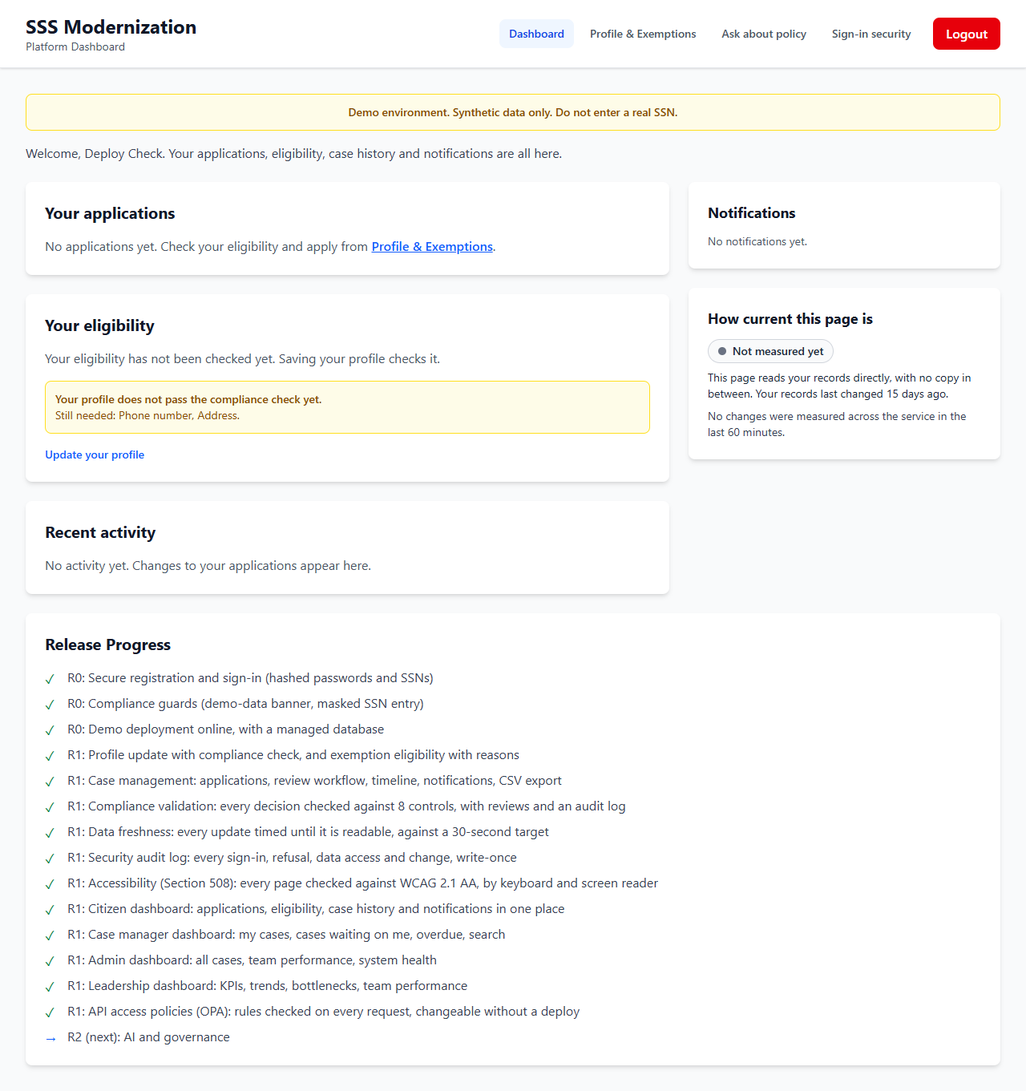
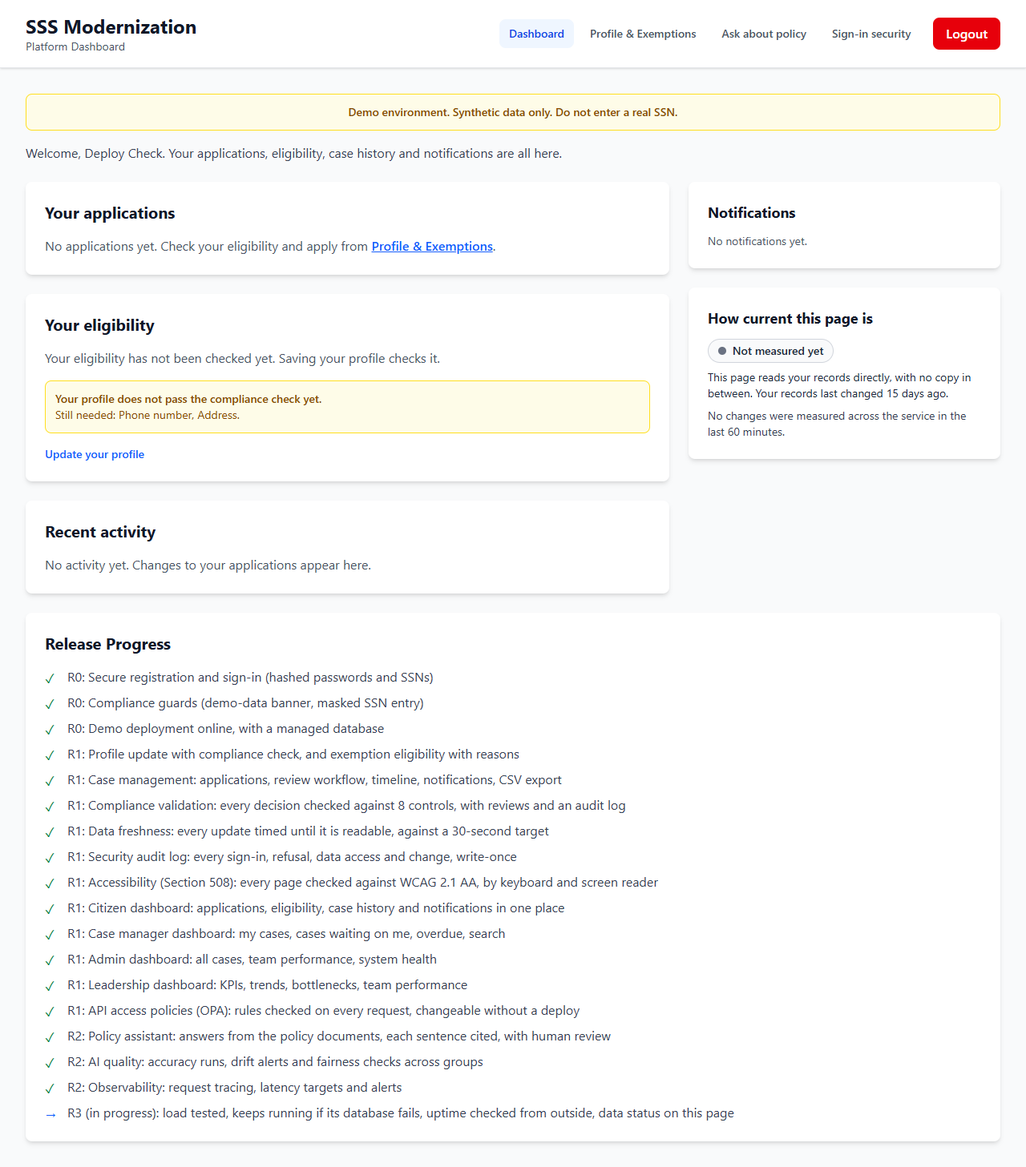
R3 milestone 1 evidence: load, sizing, outage and uptime screens, and the composite for the post
Screens 01 to 07 are drawn from the measured files (r3-load JSON, the README and sizing tables as written, the failover e2e
output), so the pictures and the numbers agree. Composite: 10 screens, 629 KB.

diff --git a/sss-modernization-demo/docs/evidence/r3-m1/01-ramp-latency.html b/sss-modernization-demo/docs/evidence/r3-m1/01-ramp-latency.html
@@ -1,0 +1,18 @@
+<!doctype html><html lang="en"><head><meta charset="utf-8"><title>STORY-031 and 033: p95 latency as load rises</title><style>
+  body { margin: 0; padding: 24px 28px; width: 1180px; background: #fcfcfb; color: #0b0b0b; font: 15px/1.45 "Segoe UI", system-ui, sans-serif; }
+  h1 { font-size: 22px; margin: 0 0 4px; } .sub { color: #52514e; margin: 0 0 16px; }
+  h2 { font-size: 16px; margin: 18px 0 8px; }
+  table { border-collapse: collapse; width: 100%; font-size: 14px; font-variant-numeric: tabular-nums; }
+  th, td { border-bottom: 1px solid #e4e3df; padding: 5px 8px; text-align: left; vertical-align: top; }
+  th { color: #52514e; font-weight: 600; background: #f3f2ef; }
+  td strong { font-weight: 700; }
+  .grid { display: grid; grid-template-columns: 1fr 1fr; gap: 24px; }
+  .legend { display: flex; gap: 18px; color: #52514e; font-size: 14px; margin: 4px 0 8px; }
+  .key { display: inline-block; width: 18px; height: 3px; vertical-align: middle; margin-right: 6px; border-radius: 2px; }
+  .note { color: #52514e; font-size: 13px; margin-top: 10px; }
+  .pass { color: #0a7a0a; font-weight: 700; } ul.checks { columns: 2; padding-left: 18px; margin: 0; font-size: 14px; } ul.checks li { margin: 2px 0; }
+  .banner { background: #fff7d6; border: 1px solid #eda100; padding: 6px 10px; border-radius: 6px; font-size: 13px; margin-bottom: 12px; }
+</style></head><body><div class="banner">Synthetic demo deployment. Not operating in production.</div><h1>STORY-031 and 033: capacity on the local stack, before and after</h1><p class="sub">Same harness, same machine, same hour: ramp of 4 to 128 open connections, 20 s per step, mixed journeys (registrant, case manager, assistant with the stub model, dashboards).</p><div class="legend"><span><span class="key" style="background:#2a78d6"></span>Before (STORY-034 build, pool 10)</span><span><span class="key" style="background:#eb6834"></span>After (STORY-033 fixes, migration 026, pool 25)</span></div>
+  <div class="grid"><figure style="margin:0"><h2>p95 response time (ms)</h2><svg width="560" height="300" role="img" aria-label="p95 response time (ms)" xmlns="http://www.w3.org/2000/svg" font-size="12" fill="#52514e"><line x1="56" x2="486" y1="260" y2="260" stroke="#e4e3df"/><text x="48" y="264" text-anchor="end">0</text><line x1="56" x2="486" y1="219" y2="219" stroke="#e4e3df"/><text x="48" y="223" text-anchor="end">2,000</text><line x1="56" x2="486" y1="178" y2="178" stroke="#e4e3df"/><text x="48" y="182" text-anchor="end">4,000</text><line x1="56" x2="486" y1="137" y2="137" stroke="#e4e3df"/><text x="48" y="141" text-anchor="end">6,000</text><line x1="56" x2="486" y1="96" y2="96" stroke="#e4e3df"/><text x="48" y="100" text-anchor="end">8,000</text><line x1="56" x2="486" y1="55" y2="55" stroke="#e4e3df"/><text x="48" y="59" text-anchor="end">10,000</text><line x1="56" x2="486" y1="14" y2="14" stroke="#e4e3df"/><text x="48" y="18" text-anchor="end">12,000</text><text x="56" y="278" text-anchor="middle">4</text><text x="142" y="278" text-anchor="middle">8</text><text x="228" y="278" text-anchor="middle">16</text><text x="314" y="278" text-anchor="middle">32</text><text x="400" y="278" text-anchor="middle">64</text><text x="486" y="278" text-anchor="middle">128</text><text x="271" y="294" text-anchor="middle">open connections</text><text x="12" y="18" transform="rotate(-90 12 18)" text-anchor="end">ms</text><line x1="56" x2="486" y1="219" y2="219" stroke="#0b0b0b" stroke-dasharray="5 4"/><text x="490" y="223" fill="#0b0b0b">2 s target</text><polyline points="56,253.4236 142,241.4721 228,221.35135 314,151.15115 400,236.8596 486,18.893350000000027" fill="none" stroke="#2a78d6" stroke-width="2"/><circle cx="56" cy="253.4236" r="4" fill="#2a78d6" stroke="#fcfcfb" stroke-width="2"/><circle cx="142" cy="241.4721" r="4" fill="#2a78d6" stroke="#fcfcfb" stroke-width="2"/><circle cx="228" cy="221.35135" r="4" fill="#2a78d6" stroke="#fcfcfb" stroke-width="2"/><circle cx="314" cy="151.15115" r="4" fill="#2a78d6" stroke="#fcfcfb" stroke-width="2"/><circle cx="400" cy="236.8596" r="4" fill="#2a78d6" stroke="#fcfcfb" stroke-width="2"/><circle cx="486" cy="18.893350000000027" r="4" fill="#2a78d6" stroke="#fcfcfb" stroke-width="2"/><text x="494" y="22.893350000000027" fill="#0b0b0b">Before</text><polyline points="56,252.9521 142,248.4995 228,240.484 314,207.92795 400,168.22764999999998 486,127.38755" fill="none" stroke="#eb6834" stroke-width="2"/><circle cx="56" cy="252.9521" r="4" fill="#eb6834" stroke="#fcfcfb" stroke-width="2"/><circle cx="142" cy="248.4995" r="4" fill="#eb6834" stroke="#fcfcfb" stroke-width="2"/><circle cx="228" cy="240.484" r="4" fill="#eb6834" stroke="#fcfcfb" stroke-width="2"/><circle cx="314" cy="207.92795" r="4" fill="#eb6834" stroke="#fcfcfb" stroke-width="2"/><circle cx="400" cy="168.22764999999998" r="4" fill="#eb6834" stroke="#fcfcfb" stroke-width="2"/><circle cx="486" cy="127.38755" r="4" fill="#eb6834" stroke="#fcfcfb" stroke-width="2"/><text x="494" y="131.38755" fill="#0b0b0b">After</text></svg></figure>
+  <figure style="margin:0"><h2>Requests that failed (%)</h2><svg width="560" height="300" role="img" aria-label="Requests that failed (%)" xmlns="http://www.w3.org/2000/svg" font-size="12" fill="#52514e"><line x1="56" x2="486" y1="260" y2="260" stroke="#e4e3df"/><text x="48" y="264" text-anchor="end">0</text><line x1="56" x2="486" y1="198.5" y2="198.5" stroke="#e4e3df"/><text x="48" y="202.5" text-anchor="end">25</text><line x1="56" x2="486" y1="137" y2="137" stroke="#e4e3df"/><text x="48" y="141" text-anchor="end">50</text><line x1="56" x2="486" y1="75.5" y2="75.5" stroke="#e4e3df"/><text x="48" y="79.5" text-anchor="end">75</text><line x1="56" x2="486" y1="14" y2="14" stroke="#e4e3df"/><text x="48" y="18" text-anchor="end">100</text><text x="56" y="278" text-anchor="middle">4</text><text x="142" y="278" text-anchor="middle">8</text><text x="228" y="278" text-anchor="middle">16</text><text x="314" y="278" text-anchor="middle">32</text><text x="400" y="278" text-anchor="middle">64</text><text x="486" y="278" text-anchor="middle">128</text><text x="271" y="294" text-anchor="middle">open connections</text><text x="12" y="18" transform="rotate(-90 12 18)" text-anchor="end">%</text><polyline points="56,260 142,260 228,260 314,260 400,14 486,14" fill="none" stroke="#2a78d6" stroke-width="2"/><circle cx="56" cy="260" r="4" fill="#2a78d6" stroke="#fcfcfb" stroke-width="2"/><circle cx="142" cy="260" r="4" fill="#2a78d6" stroke="#fcfcfb" stroke-width="2"/><circle cx="228" cy="260" r="4" fill="#2a78d6" stroke="#fcfcfb" stroke-width="2"/><circle cx="314" cy="260" r="4" fill="#2a78d6" stroke="#fcfcfb" stroke-width="2"/><circle cx="400" cy="14" r="4" fill="#2a78d6" stroke="#fcfcfb" stroke-width="2"/><circle cx="486" cy="14" r="4" fill="#2a78d6" stroke="#fcfcfb" stroke-width="2"/><text x="494" y="18" fill="#0b0b0b">Before</text><polyline points="56,260 142,260 228,260 314,260 400,260 486,260" fill="none" stroke="#eb6834" stroke-width="2"/><circle cx="56" cy="260" r="4" fill="#eb6834" stroke="#fcfcfb" stroke-width="2"/><circle cx="142" cy="260" r="4" fill="#eb6834" stroke="#fcfcfb" stroke-width="2"/><circle cx="228" cy="260" r="4" fill="#eb6834" stroke="#fcfcfb" stroke-width="2"/><circle cx="314" cy="260" r="4" fill="#eb6834" stroke="#fcfcfb" stroke-width="2"/><circle cx="400" cy="260" r="4" fill="#eb6834" stroke="#fcfcfb" stroke-width="2"/><circle cx="486" cy="260" r="4" fill="#eb6834" stroke="#fcfcfb" stroke-width="2"/><text x="494" y="264" fill="#0b0b0b">After</text></svg></figure></div>
+  <p class="note">Breaking point (first step with p95 over 2 s): 32 connections both times, p95 5,310 ms before and 2,540 ms after. Before, 96 to 98% of requests failed at 64 and 128 connections: a full connection pool was mistaken for a database outage (fixed), so the before line at 64 and 128 measures fast refusals and is not comparable. After: no failed request at any step.</p></body></html>

diff --git a/sss-modernization-demo/docs/evidence/r3-m1/02-ramp-throughput.html b/sss-modernization-demo/docs/evidence/r3-m1/02-ramp-throughput.html
@@ -1,0 +1,18 @@
+<!doctype html><html lang="en"><head><meta charset="utf-8"><title>STORY-031: throughput and what saturates</title><style>
+  body { margin: 0; padding: 24px 28px; width: 1180px; background: #fcfcfb; color: #0b0b0b; font: 15px/1.45 "Segoe UI", system-ui, sans-serif; }
+  h1 { font-size: 22px; margin: 0 0 4px; } .sub { color: #52514e; margin: 0 0 16px; }
+  h2 { font-size: 16px; margin: 18px 0 8px; }
+  table { border-collapse: collapse; width: 100%; font-size: 14px; font-variant-numeric: tabular-nums; }
+  th, td { border-bottom: 1px solid #e4e3df; padding: 5px 8px; text-align: left; vertical-align: top; }
+  th { color: #52514e; font-weight: 600; background: #f3f2ef; }
+  td strong { font-weight: 700; }
+  .grid { display: grid; grid-template-columns: 1fr 1fr; gap: 24px; }
+  .legend { display: flex; gap: 18px; color: #52514e; font-size: 14px; margin: 4px 0 8px; }
+  .key { display: inline-block; width: 18px; height: 3px; vertical-align: middle; margin-right: 6px; border-radius: 2px; }
+  .note { color: #52514e; font-size: 13px; margin-top: 10px; }
+  .pass { color: #0a7a0a; font-weight: 700; } ul.checks { columns: 2; padding-left: 18px; margin: 0; font-size: 14px; } ul.checks li { margin: 2px 0; }
+  .banner { background: #fff7d6; border: 1px solid #eda100; padding: 6px 10px; border-radius: 6px; font-size: 13px; margin-bottom: 12px; }
+</style></head><body><div class="banner">Synthetic demo deployment. Not operating in production.</div><h1>STORY-031: requests per second, and what runs out first</h1><div class="legend"><span><span class="key" style="background:#2a78d6"></span>Before (STORY-034 build, pool 10)</span><span><span class="key" style="background:#eb6834"></span>After (STORY-033 fixes, migration 026, pool 25)</span></div>
+  <div class="grid"><figure style="margin:0"><h2>Requests per second</h2><svg width="560" height="300" role="img" aria-label="Requests per second" xmlns="http://www.w3.org/2000/svg" font-size="12" fill="#52514e"><line x1="56" x2="486" y1="260" y2="260" stroke="#e4e3df"/><text x="48" y="264" text-anchor="end">0</text><line x1="56" x2="486" y1="178" y2="178" stroke="#e4e3df"/><text x="48" y="182" text-anchor="end">20</text><line x1="56" x2="486" y1="96" y2="96" stroke="#e4e3df"/><text x="48" y="100" text-anchor="end">40</text><line x1="56" x2="486" y1="14" y2="14" stroke="#e4e3df"/><text x="48" y="18" text-anchor="end">60</text><text x="56" y="278" text-anchor="middle">4</text><text x="142" y="278" text-anchor="middle">8</text><text x="228" y="278" text-anchor="middle">16</text><text x="314" y="278" text-anchor="middle">32</text><text x="400" y="278" text-anchor="middle">64</text><text x="486" y="278" text-anchor="middle">128</text><text x="271" y="294" text-anchor="middle">open connections</text><text x="12" y="18" transform="rotate(-90 12 18)" text-anchor="end">req/s</text><polyline points="56,130.44 142,158.32 228,164.47 314,186.2 400,36.139999999999986 486,111.99000000000001" fill="none" stroke="#2a78d6" stroke-width="2"/><circle cx="56" cy="130.44" r="4" fill="#2a78d6" stroke="#fcfcfb" stroke-width="2"/><circle cx="142" cy="158.32" r="4" fill="#2a78d6" stroke="#fcfcfb" stroke-width="2"/><circle cx="228" cy="164.47" r="4" fill="#2a78d6" stroke="#fcfcfb" stroke-width="2"/><circle cx="314" cy="186.2" r="4" fill="#2a78d6" stroke="#fcfcfb" stroke-width="2"/><circle cx="400" cy="36.139999999999986" r="4" fill="#2a78d6" stroke="#fcfcfb" stroke-width="2"/><circle cx="486" cy="111.99000000000001" r="4" fill="#2a78d6" stroke="#fcfcfb" stroke-width="2"/><text x="494" y="115.99000000000001" fill="#0b0b0b">Before</text><polyline points="56,94.77000000000001 142,41.879999999999995 228,44.34 314,82.47000000000003 400,57.870000000000005 486,62.79000000000002" fill="none" stroke="#eb6834" stroke-width="2"/><circle cx="56" cy="94.77000000000001" r="4" fill="#eb6834" stroke="#fcfcfb" stroke-width="2"/><circle cx="142" cy="41.879999999999995" r="4" fill="#eb6834" stroke="#fcfcfb" stroke-width="2"/><circle cx="228" cy="44.34" r="4" fill="#eb6834" stroke="#fcfcfb" stroke-width="2"/><circle cx="314" cy="82.47000000000003" r="4" fill="#eb6834" stroke="#fcfcfb" stroke-width="2"/><circle cx="400" cy="57.870000000000005" r="4" fill="#eb6834" stroke="#fcfcfb" stroke-width="2"/><circle cx="486" cy="62.79000000000002" r="4" fill="#eb6834" stroke="#fcfcfb" stroke-width="2"/><text x="494" y="66.79000000000002" fill="#0b0b0b">After</text></svg></figure>
+  <div><h2>After, step by step (ramp-final.json)</h2><table><tr><th>Connections</th><th>req/s</th><th>p50 ms</th><th>p95 ms</th><th>p99 ms</th><th>Errors</th><th>Process CPU %</th><th>Event-loop mean ms</th><th>Pool waiting (max)</th></tr><tr><td>4</td><td>40.3</td><td>50</td><td>344</td><td>796</td><td>0%</td><td>62</td><td>21</td><td>0</td></tr><tr><td>8</td><td>53.2</td><td>79</td><td>561</td><td>994</td><td>0%</td><td>88</td><td>27</td><td>2</td></tr><tr><td>16</td><td>52.6</td><td>160</td><td>952</td><td>1,957</td><td>0%</td><td>99</td><td>56</td><td>7</td></tr><tr><td><strong>32</strong></td><td>43.3</td><td>430</td><td><strong>2,540</strong></td><td>3,920</td><td>0%</td><td>99</td><td>139</td><td>39</td></tr><tr><td>64</td><td>49.3</td><td>691</td><td>4,477</td><td>6,760</td><td>0%</td><td>104</td><td>115</td><td>67</td></tr><tr><td>128</td><td>48.1</td><td>1,335</td><td>6,469</td><td>10,617</td><td>0%</td><td>114</td><td>83</td><td>320</td></tr></table></div></div>
+  <p class="note">Before: the pool of 10 connections filled at 8 open connections. After: the single JavaScript thread is the limit (process CPU about 100%, event-loop delay rising); pool waiting grows only past 32. The before rate at 64 and 128 counts the 96 to 98% of requests that failed at once. Absolute rates are this laptop's (security software slows its loopback); the comparisons were run back to back.</p></body></html>

diff --git a/sss-modernization-demo/docs/evidence/r3-m1/06-production-sizing.html b/sss-modernization-demo/docs/evidence/r3-m1/06-production-sizing.html
@@ -1,0 +1,21 @@
+<!doctype html><html lang="en"><head><meta charset="utf-8"><title>STORY-033: production sizing, every number labelled</title><style>
+  body { margin: 0; padding: 24px 28px; width: 1180px; background: #fcfcfb; color: #0b0b0b; font: 15px/1.45 "Segoe UI", system-ui, sans-serif; }
+  h1 { font-size: 22px; margin: 0 0 4px; } .sub { color: #52514e; margin: 0 0 16px; }
+  h2 { font-size: 16px; margin: 18px 0 8px; }
+  table { border-collapse: collapse; width: 100%; font-size: 14px; font-variant-numeric: tabular-nums; }
+  th, td { border-bottom: 1px solid #e4e3df; padding: 5px 8px; text-align: left; vertical-align: top; }
+  th { color: #52514e; font-weight: 600; background: #f3f2ef; }
+  td strong { font-weight: 700; }
+  .grid { display: grid; grid-template-columns: 1fr 1fr; gap: 24px; }
+  .legend { display: flex; gap: 18px; color: #52514e; font-size: 14px; margin: 4px 0 8px; }
+  .key { display: inline-block; width: 18px; height: 3px; vertical-align: middle; margin-right: 6px; border-radius: 2px; }
+  .note { color: #52514e; font-size: 13px; margin-top: 10px; }
+  .pass { color: #0a7a0a; font-weight: 700; } ul.checks { columns: 2; padding-left: 18px; margin: 0; font-size: 14px; } ul.checks li { margin: 2px 0; }
+  .banner { background: #fff7d6; border: 1px solid #eda100; padding: 6px 10px; border-radius: 6px; font-size: 13px; margin-bottom: 12px; }
+</style></head><body><div class="banner">Synthetic demo deployment. Not operating in production.</div><h1>Production sizing for 10,000 concurrent users</h1><p class="sub">docs/PRODUCTION-SIZING.md. Every number is labelled measured, derived or assumed. A derivation to check with a real load test on the target hosting, not a result.</p>
+  <h2>The result (derived)</h2><table><tr><th>Part</th><th>Size</th></tr>
+  <tr><td>Application</td><td>about 4.4 cores busy at the peak, run at 50% or less: <strong>8 to 10 one-vCPU processes</strong> across at least 2 availability zones</td></tr>
+  <tr><td>Database</td><td>about 5,000 statements/s, about 20 busy connections at peaks: a pooler, a 4 vCPU / 16 GB writer (assumed) and a read replica for the heavy dashboards, Multi-AZ</td></tr>
+  <tr><td>Audit log</td><td>about <strong>37 GB a day</strong> before indexes: partition by month</td></tr>
+  <tr><td>First risk</td><td>sign-ins on a deadline day: bcrypt grows linearly (50 sign-ins/s is 14.5 cores for hashing alone)</td></tr></table>
+  <h2>Assumptions</h2><table><tr><th>Assumption</th><th>Value</th><th>Why</th></tr><tr><td>Concurrent signed-in users at the peak</td><td>10,000</td><td>The target</td></tr><tr><td>Requests per active user</td><td>1 every 10 s (think time)</td><td>A person reading a dashboard or a form. The demo's own journeys are busier.</td></tr><tr><td>Peak request rate</td><td>1,000 requests/s</td><td>10,000 / 10 s</td></tr><tr><td>Share who sign in during a 5-minute ramp-up</td><td>20% (2,000 sign-ins)</td><td>A notice goes out and people arrive together</td></tr><tr><td>Share of requests that are reads</td><td>about 85%</td><td>Dashboards, lists and the history are reads; applications and decisions are writes</td></tr><tr><td>Database round trip inside one region</td><td>about 1 ms per statement</td><td>Same-region managed PostgreSQL; the laptop idle measure below is smaller, a loaded laptop is far larger</td></tr></table><h2>What the runs measured</h2><table><tr><th>Fact</th><th>Value</th><th>Label</th><th>Source</th></tr><tr><td>One bcrypt hash, cost 12 (the cost the app uses)</td><td>about 0.29 s of one core</td><td>measured</td><td>one hash on this laptop, node -e timing during STORY-031</td></tr><tr><td>Hashes per sign-in / per registration</td><td>1 / 2 (password and SSN)</td><td>measured</td><td>authService.ts</td></tr><tr><td>Statements per request</td><td>3 for a simple list, 4 to 10 for a dashboard, 13 to 16 for the admin and leadership dashboards (2.5 each when 20 arrive together)</td><td>measured</td><td>README "Statements per request"</td></tr><tr><td>Statements per request, mean over the mixed journey</td><td>about 5</td><td>derived</td><td>the table above, weighted by the journey mix</td></tr><tr><td>Share of statements that are the audit insert</td><td>one per read request before; fewer after batching</td><td>measured</td><td>same</td></tr><tr><td>Cost of a request that is not a hash (CPU, one core)</td><td>about 2 to 3 ms</td><td>derived</td><td>an earlier, quiet run on this laptop (about 170 requests/s at 340% CPU of which about 300% was bcrypt). The raw file of that run was not kept; treat the figure as an order of magnitude</td></tr><tr><td>Local ceiling today, this laptop, final build</td><td>about 50 requests/s for the mixed journey, p95 under 1 s up to 16 connections, over 2 s from 32</td><td>measured</td><td>README, ramp-final</td></tr><tr><td>Live demo (0.1 CPU, 512 MB), 25 connections, 60 s</td><td>32 requests/s, p95 1.24 s, 0 errors; a sign-in takes about 1.6 s</td><td>measured</td><td>README, live run</td></tr><tr><td>Pool: 10 vs 25 connections, same load</td><td>26.6 vs 43.3 requests/s, p95 1.93 s vs 1.27 s</td><td>measured</td><td>README, pool experiment</td></tr><tr><td>Index effects at 100,000 cases</td><td>633 ms to 23 ms (admin team table), 115 ms to 0.4 ms (case list), 234 ms to 5 ms (count), 22 ms to 0.2 ms (staff lookup)</td><td>measured</td><td>README, indexes</td></tr></table></body></html>

diff --git a/sss-modernization-demo/docs/evidence/r3-m1/07-database-outage.html b/sss-modernization-demo/docs/evidence/r3-m1/07-database-outage.html
@@ -1,0 +1,17 @@
+<!doctype html><html lang="en"><head><meta charset="utf-8"><title>STORY-034: the API survives its database going away</title><style>
+  body { margin: 0; padding: 24px 28px; width: 1180px; background: #fcfcfb; color: #0b0b0b; font: 15px/1.45 "Segoe UI", system-ui, sans-serif; }
+  h1 { font-size: 22px; margin: 0 0 4px; } .sub { color: #52514e; margin: 0 0 16px; }
+  h2 { font-size: 16px; margin: 18px 0 8px; }
+  table { border-collapse: collapse; width: 100%; font-size: 14px; font-variant-numeric: tabular-nums; }
+  th, td { border-bottom: 1px solid #e4e3df; padding: 5px 8px; text-align: left; vertical-align: top; }
+  th { color: #52514e; font-weight: 600; background: #f3f2ef; }
+  td strong { font-weight: 700; }
+  .grid { display: grid; grid-template-columns: 1fr 1fr; gap: 24px; }
+  .legend { display: flex; gap: 18px; color: #52514e; font-size: 14px; margin: 4px 0 8px; }
+  .key { display: inline-block; width: 18px; height: 3px; vertical-align: middle; margin-right: 6px; border-radius: 2px; }
+  .note { color: #52514e; font-size: 13px; margin-top: 10px; }
+  .pass { color: #0a7a0a; font-weight: 700; } ul.checks { columns: 2; padding-left: 18px; margin: 0; font-size: 14px; } ul.checks li { margin: 2px 0; }
+  .banner { background: #fff7d6; border: 1px solid #eda100; padding: 6px 10px; border-radius: 6px; font-size: 13px; margin-bottom: 12px; }
+</style></head><body><div class="banner">Synthetic demo deployment. Not operating in production.</div><h1>STORY-034: the API keeps running when its database goes away, and recovers by itself</h1><p class="sub">scripts/e2e/failover.mjs on a local stack: the database is stopped before start-up and again while the API serves signed-in users, then started again. No restart of the API.</p>
+  <ul class="checks"><li><span class="pass">PASS</span> starts and listens with the database away: /health database: got "down"</li><li><span class="pass">PASS</span> /health status is degraded: got "degraded"</li><li><span class="pass">PASS</span> /health still reports the commit: got true</li><li><span class="pass">PASS</span> data route answers 503: got 503</li><li><span class="pass">PASS</span> 503 has a clear error code: got "SERVICE_UNAVAILABLE"</li><li><span class="pass">PASS</span> 503 message says the database cannot be reached and nothing was saved: got true</li><li><span class="pass">PASS</span> 503 carries Retry-After: got "5"</li><li><span class="pass">PASS</span> sign-in is also 503, not a crash: got 503</li><li><span class="pass">PASS</span> still running after 3 s without a database: got null</li><li><span class="pass">PASS</span> recovered by itself: database ok: got "ok"</li><li><span class="pass">PASS</span> recovered by itself: migrations applied: got true</li><li><span class="pass">PASS</span> no restart: process still running: got null</li><li><span class="pass">PASS</span> data route answers again (401 without a token, not 503): got 401</li><li><span class="pass">PASS</span> registers an account after recovery: got 201</li><li><span class="pass">PASS</span> signed-in read works: got 200</li><li><span class="pass">PASS</span> outage: /health database: got "down"</li><li><span class="pass">PASS</span> outage: /health still reports the commit: got true</li><li><span class="pass">PASS</span> outage: data route answers 503 with a signed-in token: got [503,"SERVICE_UNAVAILABLE"]</li><li><span class="pass">PASS</span> outage: no crash: got null</li><li><span class="pass">PASS</span> after the outage: database ok again: got true</li><li><span class="pass">PASS</span> after the outage: the earlier sign-in still works: got 200</li><li><span class="pass">PASS</span> after the outage: never restarted: got null</li></ul>
+  <p class="note">22 of 22 checks passed. The multi-region design for production (AWS GovCloud, Route 53 failover, Aurora Global Database, RTO and RPO targets) is docs/FAILOVER.md: a design, not deployed.</p></body></html>

diff --git a/sss-modernization-demo/docs/evidence/r3-m1/04-fewer-statements.html b/sss-modernization-demo/docs/evidence/r3-m1/04-fewer-statements.html
@@ -1,0 +1,16 @@
+<!doctype html><html lang="en"><head><meta charset="utf-8"><title>STORY-033: database statements per request</title><style>
+  body { margin: 0; padding: 24px 28px; width: 1180px; background: #fcfcfb; color: #0b0b0b; font: 15px/1.45 "Segoe UI", system-ui, sans-serif; }
+  h1 { font-size: 22px; margin: 0 0 4px; } .sub { color: #52514e; margin: 0 0 16px; }
+  h2 { font-size: 16px; margin: 18px 0 8px; }
+  table { border-collapse: collapse; width: 100%; font-size: 14px; font-variant-numeric: tabular-nums; }
+  th, td { border-bottom: 1px solid #e4e3df; padding: 5px 8px; text-align: left; vertical-align: top; }
+  th { color: #52514e; font-weight: 600; background: #f3f2ef; }
+  td strong { font-weight: 700; }
+  .grid { display: grid; grid-template-columns: 1fr 1fr; gap: 24px; }
+  .legend { display: flex; gap: 18px; color: #52514e; font-size: 14px; margin: 4px 0 8px; }
+  .key { display: inline-block; width: 18px; height: 3px; vertical-align: middle; margin-right: 6px; border-radius: 2px; }
+  .note { color: #52514e; font-size: 13px; margin-top: 10px; }
+  .pass { color: #0a7a0a; font-weight: 700; } ul.checks { columns: 2; padding-left: 18px; margin: 0; font-size: 14px; } ul.checks li { margin: 2px 0; }
+  .banner { background: #fff7d6; border: 1px solid #eda100; padding: 6px 10px; border-radius: 6px; font-size: 13px; margin-bottom: 12px; }
+</style></head><body><div class="banner">Synthetic demo deployment. Not operating in production.</div><h1>STORY-033: fewer database statements per request</h1><p class="sub">Counted by the load sampler, 40 sequential requests per route on a fresh database. This does not depend on the machine.</p><table><tr><th>Route</th><th>Statements before</th><th>after</th></tr><tr><td>GET /cases/stats (staff)</td><td>5.95</td><td>4.05</td></tr><tr><td>GET /dashboards/case-manager</td><td>8.07</td><td>7.05</td></tr><tr><td>GET /dashboards/admin</td><td>17.05</td><td>16.05</td></tr><tr><td>GET /dashboards/leadership</td><td>14.05</td><td>13.05</td></tr><tr><td>GET /dashboards/admin, 20 at the same moment</td><td>17.10 each</td><td>2.55 each</td></tr><tr><td>GET /exemptions, /notifications, /assistant/history, /cases</td><td>3.05 to 4.03</td><td>3.02 to 4.05 (unchanged: role, the query, the audit entry)</td></tr></table>
+  <h2>Indexes (migration 026), 100,000 cases and 100,000 applicants, EXPLAIN ANALYZE</h2><table><tr><th>Query</th><th>Before</th><th>After</th></tr><tr><td>Admin dashboard team table (lower(assigned_to) = lower(email) for each of 42 staff)</td><td>633 ms</td><td>23 ms (idx_cases_assigned_lower_status)</td></tr><tr><td>Staff case list, newest first, 25 rows</td><td>115 ms</td><td>0.4 ms (idx_cases_updated_at)</td></tr><tr><td>Staff lookup lower(email) = lower($1)</td><td>22 ms</td><td>0.2 ms (idx_users_email_lower)</td></tr><tr><td>Case list total count (two joins it did not need)</td><td>234 ms</td><td>5 ms (joins only when a filter names the table)</td></tr></table></body></html>

diff --git a/sss-modernization-demo/docs/evidence/r3-m1/05-live-run.html b/sss-modernization-demo/docs/evidence/r3-m1/05-live-run.html
@@ -1,0 +1,17 @@
+<!doctype html><html lang="en"><head><meta charset="utf-8"><title>STORY-032: one light run against the live demo</title><style>
+  body { margin: 0; padding: 24px 28px; width: 1180px; background: #fcfcfb; color: #0b0b0b; font: 15px/1.45 "Segoe UI", system-ui, sans-serif; }
+  h1 { font-size: 22px; margin: 0 0 4px; } .sub { color: #52514e; margin: 0 0 16px; }
+  h2 { font-size: 16px; margin: 18px 0 8px; }
+  table { border-collapse: collapse; width: 100%; font-size: 14px; font-variant-numeric: tabular-nums; }
+  th, td { border-bottom: 1px solid #e4e3df; padding: 5px 8px; text-align: left; vertical-align: top; }
+  th { color: #52514e; font-weight: 600; background: #f3f2ef; }
+  td strong { font-weight: 700; }
+  .grid { display: grid; grid-template-columns: 1fr 1fr; gap: 24px; }
+  .legend { display: flex; gap: 18px; color: #52514e; font-size: 14px; margin: 4px 0 8px; }
+  .key { display: inline-block; width: 18px; height: 3px; vertical-align: middle; margin-right: 6px; border-radius: 2px; }
+  .note { color: #52514e; font-size: 13px; margin-top: 10px; }
+  .pass { color: #0a7a0a; font-weight: 700; } ul.checks { columns: 2; padding-left: 18px; margin: 0; font-size: 14px; } ul.checks li { margin: 2px 0; }
+  .banner { background: #fff7d6; border: 1px solid #eda100; padding: 6px 10px; border-radius: 6px; font-size: 13px; margin-bottom: 12px; }
+</style></head><body><div class="banner">Synthetic demo deployment. Not operating in production.</div><h1>STORY-032: one light run against the live demo</h1><p class="sub">25 connections for 60 s, read-only routes, one synthetic @example.com account, no AI route. Instance: 0.1 CPU, 512 MB (Render free), before the STORY-033 changes were deployed.</p>
+  <table><tr><th></th><th>Requests</th><th>req/s</th><th>p50 ms</th><th>p95 ms</th><th>p99 ms</th><th>Errors</th></tr><tr><td>All routes</td><td>1,920</td><td>32.0</td><td>753</td><td><strong>1,244</strong></td><td>1,470</td><td><strong>0</strong> (0 rate-limited, 0 connection errors)</td></tr><tr><td>GET /exemptions</td><td>398</td><td>6.6</td><td>550</td><td>1,418</td><td>2,216</td><td>0</td></tr><tr><td>GET /cases (own)</td><td>391</td><td>6.5</td><td>658</td><td>1,070</td><td>1,294</td><td>0</td></tr><tr><td>GET /dashboards/citizen</td><td>381</td><td>6.4</td><td>868</td><td>1,306</td><td>1,407</td><td>0</td></tr><tr><td>GET /notifications</td><td>375</td><td>6.3</td><td>807</td><td>1,223</td><td>1,302</td><td>0</td></tr><tr><td>GET /users/:id</td><td>375</td><td>6.3</td><td>818</td><td>1,227</td><td>1,453</td><td>0</td></tr></table>
+  <p class="note">1,920 requests, p95 1,244 ms against the 2 s target, 0 errors. Five sign-ins one at a time: 1.6 to 1.7 s each (bcrypt, cost 12). Nothing here says anything about 10,000 users; see the sizing.</p></body></html>

diff --git a/sss-modernization-demo/docs/evidence/r3-m1/03-hold-and-spike.html b/sss-modernization-demo/docs/evidence/r3-m1/03-hold-and-spike.html
@@ -1,0 +1,16 @@
+<!doctype html><html lang="en"><head><meta charset="utf-8"><title>STORY-031 and 033: hold, pool size and spike</title><style>
+  body { margin: 0; padding: 24px 28px; width: 1180px; background: #fcfcfb; color: #0b0b0b; font: 15px/1.45 "Segoe UI", system-ui, sans-serif; }
+  h1 { font-size: 22px; margin: 0 0 4px; } .sub { color: #52514e; margin: 0 0 16px; }
+  h2 { font-size: 16px; margin: 18px 0 8px; }
+  table { border-collapse: collapse; width: 100%; font-size: 14px; font-variant-numeric: tabular-nums; }
+  th, td { border-bottom: 1px solid #e4e3df; padding: 5px 8px; text-align: left; vertical-align: top; }
+  th { color: #52514e; font-weight: 600; background: #f3f2ef; }
+  td strong { font-weight: 700; }
+  .grid { display: grid; grid-template-columns: 1fr 1fr; gap: 24px; }
+  .legend { display: flex; gap: 18px; color: #52514e; font-size: 14px; margin: 4px 0 8px; }
+  .key { display: inline-block; width: 18px; height: 3px; vertical-align: middle; margin-right: 6px; border-radius: 2px; }
+  .note { color: #52514e; font-size: 13px; margin-top: 10px; }
+  .pass { color: #0a7a0a; font-weight: 700; } ul.checks { columns: 2; padding-left: 18px; margin: 0; font-size: 14px; } ul.checks li { margin: 2px 0; }
+  .banner { background: #fff7d6; border: 1px solid #eda100; padding: 6px 10px; border-radius: 6px; font-size: 13px; margin-bottom: 12px; }
+</style></head><body><div class="banner">Synthetic demo deployment. Not operating in production.</div><h1>Hold, pool size and spike (final build)</h1><p class="sub">The 16-connection hold with the pool at 10 and at 25, and a spike from 4 to 64 connections and back.</p><table><tr><th>Run</th><th>Connections</th><th>req/s</th><th>p50 ms</th><th>p95 ms</th><th>p99 ms</th><th>Errors</th></tr><tr><td>hold 60 s, pool 10 (hold-c16-pool10)</td><td>16</td><td>26.6</td><td>369</td><td>1,928</td><td>3,219</td><td>0%</td></tr><tr><td>hold 60 s, pool 25 (hold-c16-pool25)</td><td>16</td><td>43.3</td><td>202</td><td>1,266</td><td>2,071</td><td>0%</td></tr><tr><td>spike, baseline (spike-4-64)</td><td>4</td><td>59.0</td><td>40</td><td>172</td><td>618</td><td>0%</td></tr><tr><td>spike, 64 connections for 20 s</td><td>64</td><td>39.3</td><td>569</td><td>5,794</td><td>9,812</td><td>13.2% (104 x 503)</td></tr><tr><td>spike, recovery</td><td>4</td><td>46.8</td><td>41</td><td>236</td><td>779</td><td>0%</td></tr></table>
+  <p class="note">In the spike the failed requests are 503 "very busy, try again" answers with Retry-After after a 10 s wait for a connection; the next phase is back to full speed with no errors. Before the fix the same burst closed the whole API for everyone.</p></body></html>
